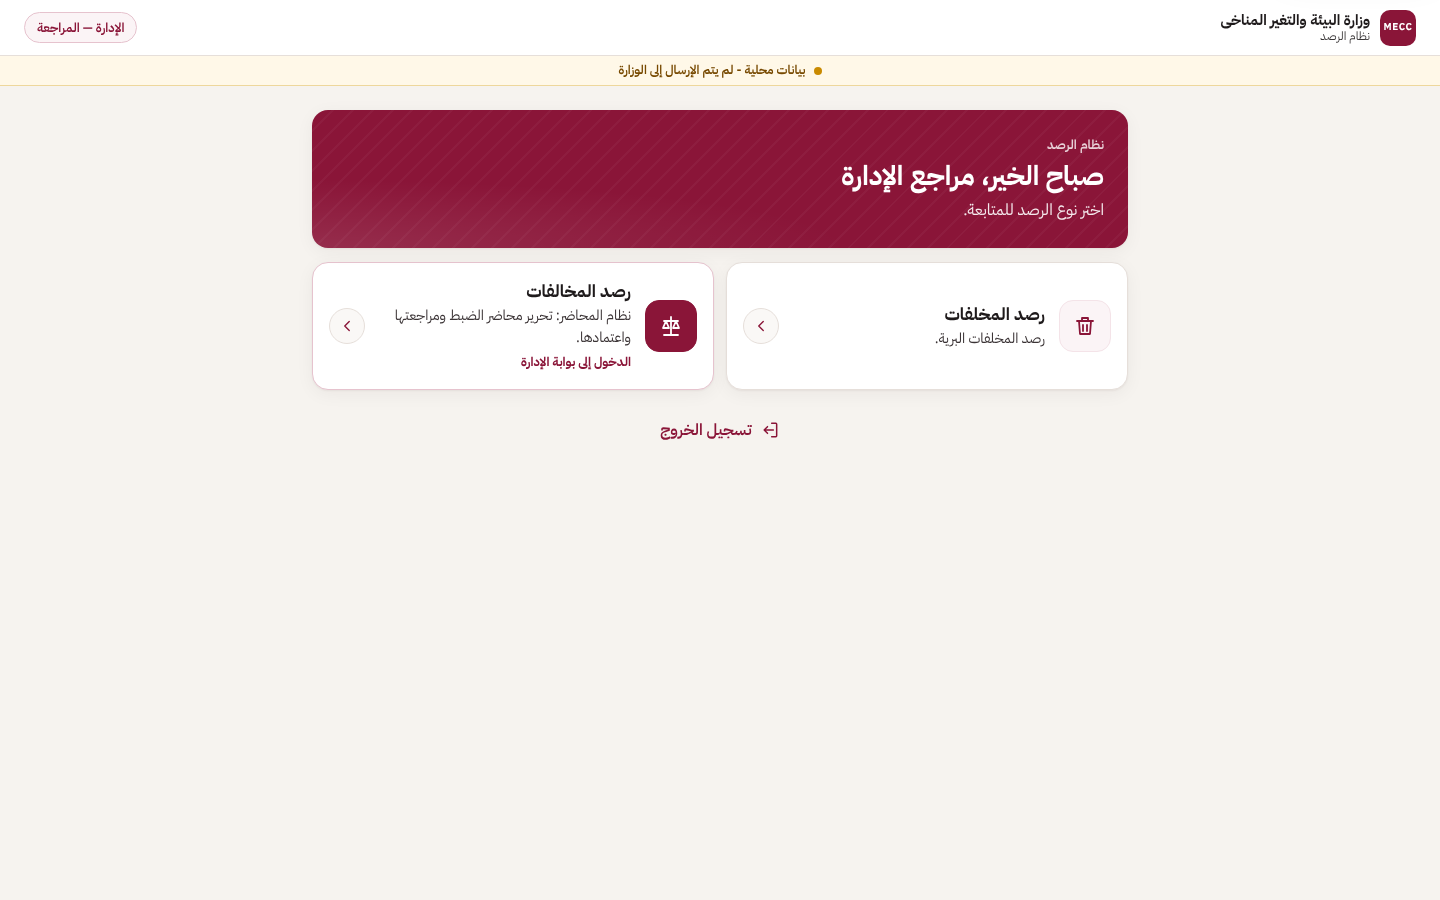
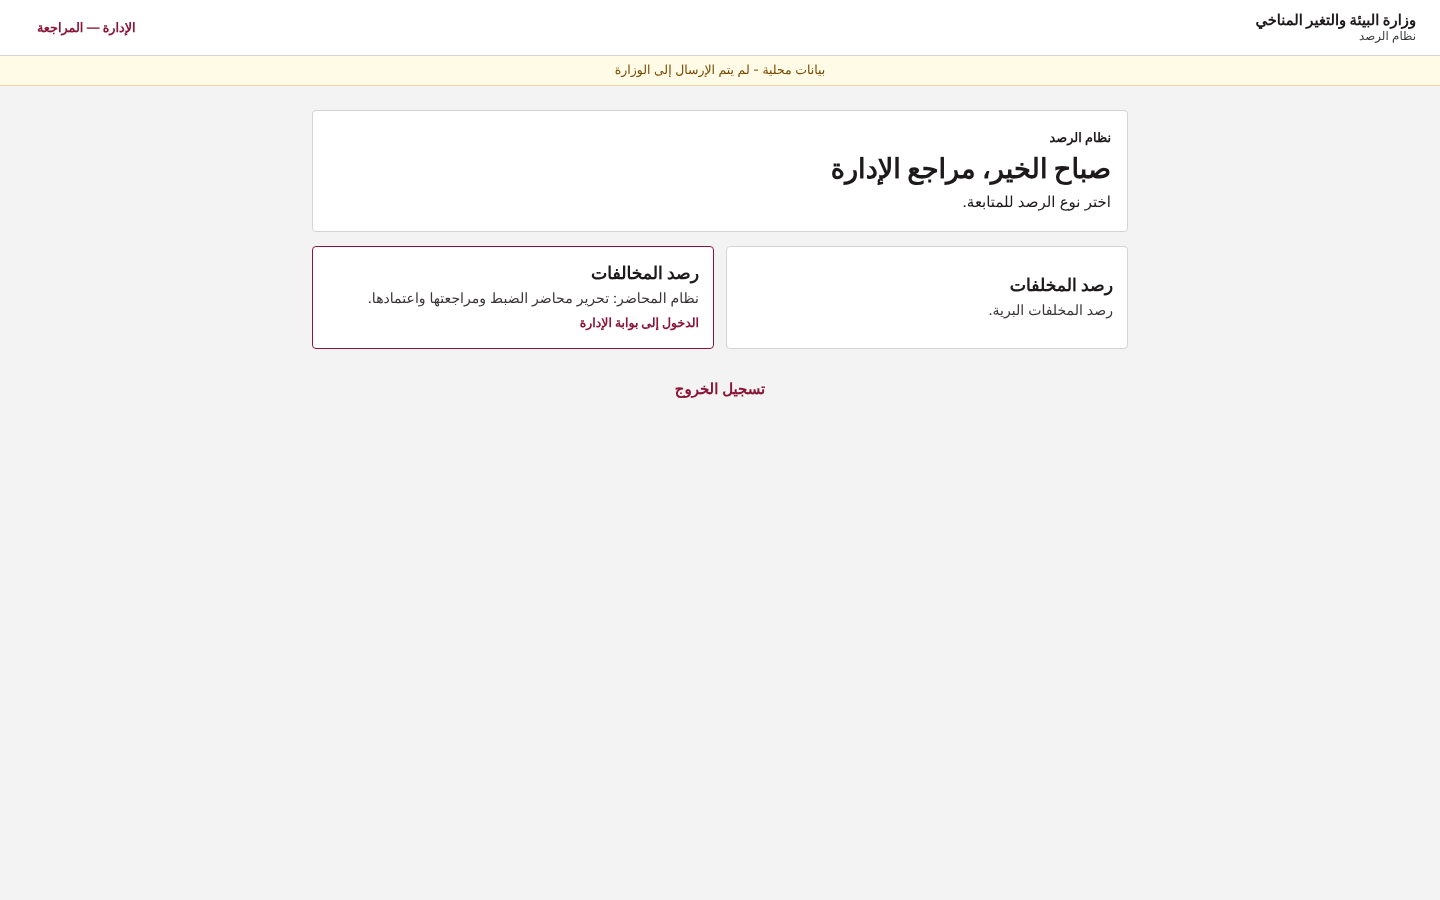
Plain, simple visual style
Override layer: white boxes with thin borders, small corners, no shadows,
gradients or patterns; white sidebar; maroon only for main buttons and the
current page; fewer decorative icons; single-column login. No functional
changes.

Claude-Session: https://claude.ai/code/session_01N7wP1B2YgHTzP5aMeJkVVU

diff --git a/mecc-judicial-control.html b/mecc-judicial-control.html
@@ -657,6 +657,59 @@ dialog.confirm{width:min(92vw,440px)}
 .paper .p-sign em{display:block;margin-bottom:3mm}
 .paper .p-sign .p-line{border-top:1px dotted #555;padding-top:6px}
 .paper .p-note{font-size:9pt;border:1px dashed #999;padding:6px 8px;margin-top:12px}
+
+/* =========================================================
+   Simple look — plain, basic styling (overrides everything above)
+   ========================================================= */
+:root{--r-lg:5px;--r:5px;--r-sm:4px;--sh:none;--sh-lg:0 2px 8px rgba(0,0,0,.18);--bg:#f3f3f3;--line:#d4d4d4;--line-strong:#b8b8b8;--maroon-50:#f6eef1;--surface-2:#f7f7f7}
+*{transition:none!important}
+body{font-size:15px}
+h1{font-size:1.3rem}
+.card,.rcard,.stat,.sys-card,.login-card,.stepper,.table-wrap,.hero,.id-band,.demo-acc,.vcard,.pcard,.lv-item,.opt-card,.chip-box,
+details.legal,.save-state,.filters a,.seg,.seg label,.error-summary,.msg,.legal-note,.return-note,.btn,.step-pills button,.sys-go,.vnum,.vcheck,
+input,select,textarea,.sig-pad,.gallery figure,.kv,.counter,.badge,.portal-pill,.sys-role,.id-chip,.pthumb,.bottomnav a,.side-nav a,.pgps,dialog.viewer,dialog.preview{border-radius:4px!important;box-shadow:none!important;background-image:none!important}
+/* header & sidebar */
+.brand-mark{display:none!important}
+.portal-pill{background:transparent!important;border-color:rgba(255,255,255,.5)!important}
+.localbar{background:#fffbe6;font-weight:400}
+.localbar .dot{display:none}
+.sidebar{background:#fff!important;color:var(--text)!important;border-inline-end:1px solid var(--line)}
+.sidebar .side-nav a{color:var(--text)}
+.sidebar .side-nav a:hover{background:#efefef}
+.sidebar .side-nav a[aria-current="page"]{background:var(--maroon);color:#fff}
+.side-head,.side-foot{border-color:var(--line)!important}
+.side-head .icon-btn,.side-user{color:var(--text)!important}
+.side-label{color:var(--muted);opacity:1}
+.sidebar :focus-visible{outline-color:var(--maroon)}
+/* bands become plain boxes */
+.id-band{background:#fff!important;color:var(--text)!important;border:1px solid var(--line)!important;padding:16px!important}
+.id-band h1,.id-band h2,.id-band p,.hero .lead{color:var(--text)!important}
+.id-eyebrow{color:var(--muted)!important}
+.btn.on-dark{background:var(--maroon)!important;color:#fff!important}
+.hero{display:block!important}
+.hero .btn{width:auto!important;margin-top:12px!important}
+/* login: one simple column */
+body.auth .login{grid-template-columns:minmax(0,1fr)!important;max-width:460px!important;min-height:0!important;padding:16px 0!important;gap:12px!important}
+body.auth .login-band{margin:0!important;padding:16px!important;display:block!important}
+body.auth .login-band h1{font-size:1.4rem!important;margin:8px 0 4px!important}
+body.auth .login .login-card{margin:0!important;max-width:none!important;border:1px solid var(--line)!important;padding:16px!important;display:block!important}
+.demo-acc .ic,.id-org .brand-mark{display:none}
+/* fewer decorations */
+.btn .ic,.rmeta .ic,.sec-head .ic,.card-head h3 .ic,.lv-box h3 .ic,.msg>.ic,.legal-note>.ic,.sys-ic,.sys-go,.vtag,.toast .ic,.stat::before,.badge::before,.sig-actions .ic{display:none!important}
+.stat strong{color:var(--text)!important}
+.stat{border-color:var(--line)!important}
+.badge{font-weight:600;border:1px solid var(--line)}
+.rcard.is-returned{border-inline-start-width:3px}
+.sys-card{padding:14px!important}
+.sys-card.main{border-color:var(--maroon)!important}
+.vcard{padding:12px!important}
+.vcard.on,.vcard:has(input:checked){background:var(--maroon-50)!important}
+.vnum{background:#fff!important}
+.step-pills [aria-current="step"]{background:#fff!important}
+.bottomnav a.accent .bn-icon{background:none!important;color:inherit!important;width:auto!important;height:auto!important}
+.bottomnav{box-shadow:none!important}
+.decision .legal-note,.legal-note{border-style:solid}
+details.legal summary .ic{display:none}
 </style>
 </head>
 <body>
